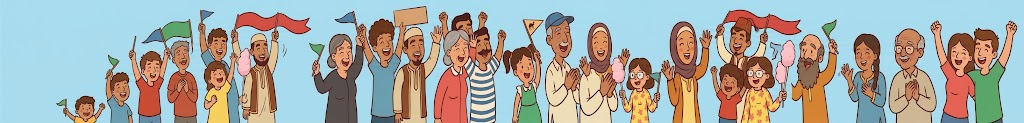
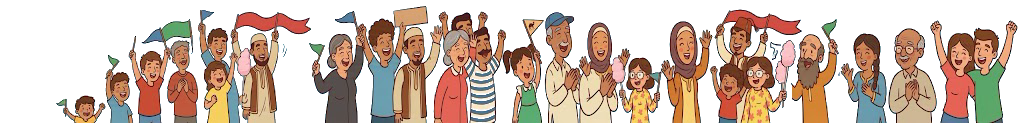
Add left/right camel margins, anchor spectators to the top line, fix background mismatch
Camels now start with a margin from the left edge (matching the old
.screen container padding) instead of flush against it now that the
track is full-bleed, and the finish flag gets the same right-side
margin.

Spectators image moved off #track's own background onto a separate
absolutely-positioned layer sized to the header zone, anchored to
its bottom edge so the crowd's feet line up with the dashed line
instead of floating near the very top.

Chroma-keyed the spectators.png background out (it was a slightly
different, darker blue than the page's --sky color, showing as a
visible rectangle) so the page's own background shows through
instead of a mismatched flat color.

diff --git a/js/host.js b/js/host.js
@@ -304,6 +304,11 @@ function renderTrack() {
   track.style.height = `${teams.length * LANE_HEIGHT + TRACK_TOP_PADDING + TRACK_BOTTOM_PADDING}px`;
   const laneHeight = LANE_HEIGHT;
 
+  const spectators = document.createElement("div");
+  spectators.id = "track-spectators";
+  spectators.style.height = `${TRACK_TOP_PADDING - 20}px`;
+  track.appendChild(spectators);
+
   const ground = document.createElement("div");
   ground.id = "track-ground";
   ground.style.top = `${TRACK_TOP_PADDING - 20}px`;
@@ -344,14 +349,16 @@ function renderTrack() {
   updateCamelPositions();
 }
 
+const TRACK_SIDE_MARGIN = 24; // mirrors the old .screen container padding, now that #track is full-bleed
+
 function updateCamelPositions() {
   const totalQuestions = questionsData.questions.length;
-  const trackWidth = track.clientWidth - 80;
+  const travelWidth = track.clientWidth - 80 - TRACK_SIDE_MARGIN;
 
   teams.forEach((team) => {
     const camel = document.getElementById(`camel-${team.id}`);
     const progress = team.position / totalQuestions;
-    camel.style.left = `${progress * trackWidth}px`;
+    camel.style.left = `${TRACK_SIDE_MARGIN + progress * travelWidth}px`;
   });
 }
 

diff --git a/css/style.css b/css/style.css
@@ -158,9 +158,16 @@ button:hover { background: #a8551f; }
   border-bottom: 4px dashed #a8814a;
   margin-bottom: 20px;
   overflow: hidden;
+}
+
+#track-spectators {
+  position: absolute;
+  left: 0;
+  right: 0;
+  top: 0;
   background-image: url("../assets/spectators.png");
   background-repeat: no-repeat;
-  background-position: center top;
+  background-position: center bottom;
   background-size: 100% auto;
 }
 
@@ -190,7 +197,7 @@ button:hover { background: #a8551f; }
 #track::after {
   content: "🏁";
   position: absolute;
-  right: 8px;
+  right: 24px;
   bottom: 8px;
   font-size: 2.5rem;
 }
